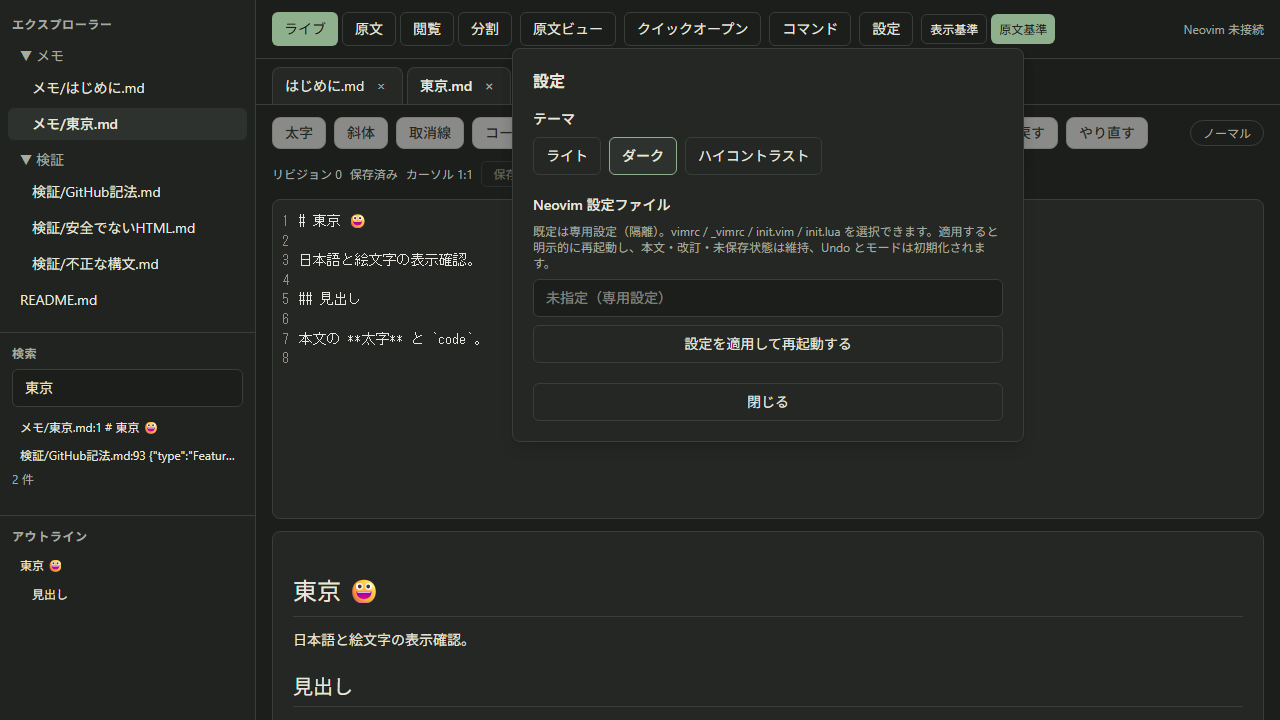
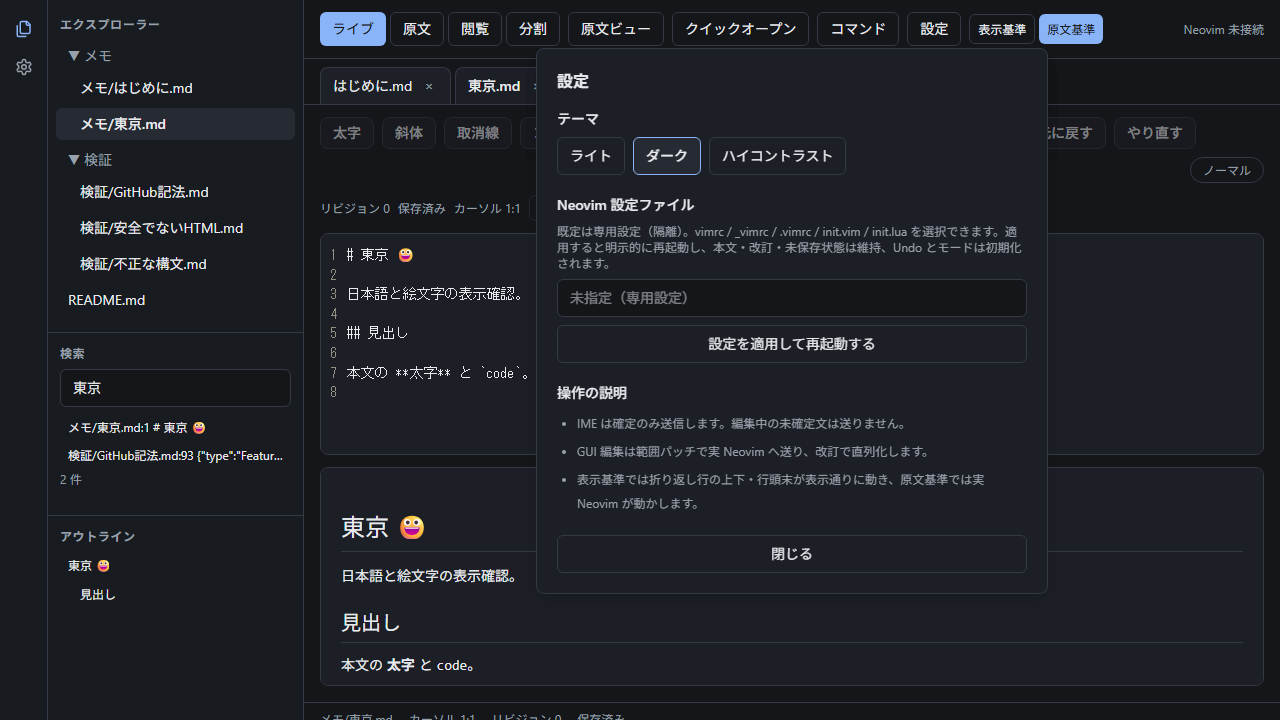
feat(issue-5): native user flows, AI sidebar, live preview wiring
- Native folder/config pickers via plugin-dialog (allow-open only); typed paths kept
- Status refreshes with documents/events; footer holds path/cursor/mode/revision; help moved to settings
- Cursor echo uses dedicated sequence tokens; display arrows/selection stay local; 229/IME never motions
- AI sidebar with exact scope, persisted non-secret profiles, onProposal handoff; apply reserved for #8
- Live mode wires livePreview into the editor pane; source/split raw; dark default neutral, light kept
- .vimrc accepted like backend; E2E exact-name fix; ADR-0052

diff --git a/src/components/shell/WorkspaceShell.tsx b/src/components/shell/WorkspaceShell.tsx
@@ -149,7 +149,7 @@ export function WorkspaceShell() {
   const [showAi, setShowAi] = useState(false);
   const [aiDismissed, setAiDismissed] = useState(false);
   const [aiProposal, setAiProposal] = useState<{ proposal: ProposalText; sent: ContextSummary[] } | null>(null);
-  const [theme, setTheme] = useState<ThemeId>("light");
+  const [theme, setTheme] = useState<ThemeId>("dark");
   const [quickOpen, setQuickOpen] = useState(false);
   const [palette, setPalette] = useState(false);
   const [settings, setSettings] = useState(false);
@@ -184,6 +184,14 @@ export function WorkspaceShell() {
   docsRef.current = docs;
   const activeRef = useRef(activeId);
   activeRef.current = activeId;
+  // Dedicated cursor sequence: every echo gets a fresh token so navigation
+  // without text change is never suppressed by revision equality.
+  const cursorSeq = useRef(0);
+  const echoCursor = useCallback((id: string, anchor: number, head: number) => {
+    cursorSeq.current += 1;
+    const seq = cursorSeq.current;
+    setCursorEcho((prev) => ({ ...prev, [id]: { anchor, head, seq } }));
+  }, []);
   const navRef = useRef(navBasis);
   navRef.current = navBasis;
   const vimModeRef = useRef(vimMode);
@@ -221,12 +229,12 @@ export function WorkspaceShell() {
       try {
         const cursor = await registry.fetchCursor(id);
         setSelections((prev) => ({ ...prev, [id]: { anchor: cursor.anchor, head: cursor.head } }));
-        setCursorEcho((prev) => ({ ...prev, [id]: { anchor: cursor.anchor, head: cursor.head, rev: cursor.revision } }));
+        echoCursor(id, cursor.anchor, cursor.head);
       } catch {
         // Best-effort display only.
       }
     },
-    [registry],
+    [registry, echoCursor],
   );
 
   // -- workspace lifecycle -------------------------------------------------
@@ -527,21 +535,19 @@ export function WorkspaceShell() {
 
   const jumpToOffset = useCallback(
     async (id: string, anchor: number, head: number) => {
-      setCursorEcho((prev) => {
-        const current = docsRef.current[id];
-        return { ...prev, [id]: { anchor, head, rev: (current?.revision ?? 0) + 0.5 } };
-      });
+      echoCursor(id, anchor, head);
       if (!registry) return;
       const current = docsRef.current[id];
       if (!current) return;
       try {
         const cursor = await registry.reportCursor({ documentId: id, revision: current.revision, anchor, head });
-        setCursorEcho((prev) => ({ ...prev, [id]: { anchor: cursor.anchor, head: cursor.head, rev: cursor.revision } }));
+        setSelections((prev) => ({ ...prev, [id]: { anchor: cursor.anchor, head: cursor.head } }));
+        echoCursor(id, cursor.anchor, cursor.head);
       } catch {
         // Best-effort navigation; the editor keeps its own selection.
       }
     },
-    [registry],
+    [registry, echoCursor],
   );
 
   // -- GUI range actions -----------------------------------------------------
@@ -772,8 +778,18 @@ export function WorkspaceShell() {
 
   // -- events / recovery -----------------------------------------------------
 
+  // Native status must follow documents, not mount time: an empty workspace
+  // reads disconnected while an open document reads connected, and a process
+  // crash flips back through the event path below.
+  const refreshRuntime = useCallback(() => {
+    readRuntimeStatus()
+      .then(setRuntime)
+      .catch(() => setRuntime({ contractVersion: 1, connection: "error", detail: "接続状態を取得できません。" }));
+  }, []);
+
   const handleEvents = useCallback(
     (events: WorkspaceEvent[]) => {
+      if (events.length > 0) refreshRuntime();
       for (const event of events) {
         if (event.type === "external_change") {
           const { documentId, path, deleted } = event.payload;
@@ -792,7 +808,7 @@ export function WorkspaceShell() {
         }
       }
     },
-    [mergeSnapshot],
+    [mergeSnapshot, refreshRuntime],
   );
 
   useEffect(() => {
@@ -823,6 +839,12 @@ export function WorkspaceShell() {
       active = false;
     };
   }, []);
+
+  // Native status refreshes with documents and workspace root; the mount
+  // read above only seeds the first paint.
+  useEffect(() => {
+    if (desktop) refreshRuntime();
+  }, [desktop, activeId, active?.revision, wsRoot, refreshRuntime]);
 
   useEffect(() => {
     if (!desktop || !activeId) return;
@@ -892,7 +914,7 @@ export function WorkspaceShell() {
     }
     const trimmed = configPath.trim();
     if (trimmed !== "" && !isSupportedConfigName(trimmed)) {
-      setConfigError("対応する名前は vimrc / _vimrc / init.vim / init.lua です。");
+      setConfigError("対応する名前は vimrc / _vimrc / .vimrc / init.vim / init.lua です。");
       return;
     }
     const id = activeRef.current;
@@ -1569,9 +1591,10 @@ export function WorkspaceShell() {
 
         <footer className="flex flex-wrap gap-x-4 gap-y-1 border-t border-border px-4 py-2 text-xs text-muted-foreground">
           <span>{active?.path ?? "（未開封）"}</span>
-          <span>IME は確定のみ送信（編集中の未確定文は送らない）</span>
-          <span>{desktop ? "GUI 編集は範囲パッチで Neovim へ" : "ブラウザ表示は読み取り専用です"}</span>
-          {desktop && <span>移動基準: {navBasis === "display" ? "表示" : "原文"}</span>}
+          {cursorPos && <span>カーソル {cursorPos}</span>}
+          {desktop && active && <span>モード {MODE_JA[vimMode] ?? vimMode}</span>}
+          <span>リビジョン {active?.revision ?? "—"}</span>
+          {active && <span>{active.dirty ? "未保存" : "保存済み"}</span>}
         </footer>
 
         <QuickOpen

diff --git a/src/components/workspace/SettingsPanel.tsx b/src/components/workspace/SettingsPanel.tsx
@@ -36,7 +36,7 @@ export function SettingsPanel({ theme, onTheme, configPath, configError, onConfi
       </section>
       <section aria-label="Neovim 設定" className="mt-5">
         <p className="mb-2 text-sm font-medium">Neovim 設定ファイル</p>
-        <p className="mb-2 text-xs text-muted-foreground">既定は専用設定（隔離）。vimrc / _vimrc / init.vim / init.lua を選択できます。適用すると明示的に再起動し、本文・改訂・未保存状態は維持、Undo とモードは初期化されます。</p>
+        <p className="mb-2 text-xs text-muted-foreground">既定は専用設定（隔離）。vimrc / _vimrc / .vimrc / init.vim / init.lua を選択できます。適用すると明示的に再起動し、本文・改訂・未保存状態は維持、Undo とモードは初期化されます。</p>
         {currentConfig !== null && (
           <p data-testid="current-config" className="mb-2 text-xs text-muted-foreground">現在: {currentConfig === "" ? "専用設定（隔離）" : currentConfig}</p>
         )}
@@ -56,7 +56,7 @@ export function SettingsPanel({ theme, onTheme, configPath, configError, onConfi
         </div>
         {nameInvalid && (
           <p role="alert" className="mt-2 text-xs text-red-700">
-            対応する名前は vimrc / _vimrc / init.vim / init.lua です。
+            対応する名前は vimrc / _vimrc / .vimrc / init.vim / init.lua です。
           </p>
         )}
         {configError && (
@@ -73,6 +73,14 @@ export function SettingsPanel({ theme, onTheme, configPath, configError, onConfi
         >
           {applyingConfig ? "再起動中…" : "設定を適用して再起動する"}
         </button>
+      </section>
+      <section aria-label="操作の説明" className="mt-5">
+        <p className="mb-2 text-sm font-medium">操作の説明</p>
+        <ul className="list-disc space-y-1 pl-5 text-xs leading-6 text-muted-foreground">
+          <li>IME は確定のみ送信します。編集中の未確定文は送りません。</li>
+          <li>GUI 編集は範囲パッチで実 Neovim へ送り、改訂で直列化します。</li>
+          <li>表示基準では折り返し行の上下・行頭末が表示通りに動き、原文基準では実 Neovim が動かします。</li>
+        </ul>
       </section>
       <button type="button" onClick={onClose} className="mt-5 w-full rounded-md border border-border px-3 py-2 text-sm">
         閉じる

diff --git a/src/components/editor/CodeMirrorEditor.tsx b/src/components/editor/CodeMirrorEditor.tsx
@@ -11,14 +11,14 @@ export interface EditorSelection {
 }
 
 /**
- * Vim cursor echo from the shell. Applied once per `rev` (the snapshot
- * revision the cursor was read at). This is the agreed key-router seam with
- * renderer #6: decorations, widgets, and composition handling stay untouched.
+ * Vim cursor echo from the shell. Each echo carries a dedicated shell-side
+ * sequence token so non-edit navigation applies even when the snapshot
+ * revision is unchanged. No revision arithmetic is used here.
  */
 export interface ExternalCursor {
   anchor: number;
   head: number;
-  rev: number;
+  seq: number;
 }
 
 interface Props {
@@ -175,15 +175,16 @@ export function CodeMirrorEditor({ value, editable = true, ariaLabel, testId, on
     view.dispatch({ effects: editableRef.current.reconfigure(EditorView.editable.of(editable)) });
   }, [editable]);
 
-  // Vim cursor echo: apply once per snapshot revision without disturbing
-  // composition or the user's active selection gestures.
-  const appliedCursorRev = useRef<number | null>(null);
+  // Vim cursor echo: apply once per sequence token without disturbing
+  // composition or the user's active selection gestures. The programmatic
+  // dispatch is guarded, so it never echoes back through onSelectionChange.
+  const appliedCursorSeq = useRef<number | null>(null);
   useEffect(() => {
     const view = viewRef.current;
     if (!view || !externalCursor) return;
     if (composing.current) return;
-    if (appliedCursorRev.current === externalCursor.rev) return;
-    appliedCursorRev.current = externalCursor.rev;
+    if (appliedCursorSeq.current === externalCursor.seq) return;
+    appliedCursorSeq.current = externalCursor.seq;
     const len = view.state.doc.length;
     const anchor = Math.min(Math.max(0, externalCursor.anchor), len);
     const head = Math.min(Math.max(0, externalCursor.head), len);

diff --git a/src/components/shell/WorkspaceShell.registry.test.tsx b/src/components/shell/WorkspaceShell.registry.test.tsx
@@ -302,6 +302,23 @@ it("picks the config file natively and applies it with restart", async () => {
   await screen.findByText(/再起動しました/);
 });
 
+it("refreshes the runtime status when documents open", async () => {
+  vi.mocked(readRuntimeStatus).mockReset();
+  let releaseFirst!: (status: { contractVersion: number; connection: "disconnected"; detail: string }) => void;
+  vi.mocked(readRuntimeStatus).mockImplementationOnce(
+    () => new Promise((resolve) => { releaseFirst = resolve; }),
+  );
+  vi.mocked(readRuntimeStatus).mockResolvedValue({ contractVersion: 1, connection: "connected", detail: "live" });
+  render(<App />);
+  releaseFirst({ contractVersion: 1, connection: "disconnected", detail: "empty" });
+  expect(await screen.findByText("Neovim 未接続")).toBeVisible();
+  fireEvent.change(screen.getByLabelText("開くフォルダーの絶対パス"), { target: { value: "/ws" } });
+  fireEvent.click(screen.getByRole("button", { name: "フォルダーを開く" }));
+  await screen.findByRole("button", { name: "メモ/a.md" });
+  fireEvent.click(screen.getByRole("button", { name: "メモ/a.md" }));
+  await waitFor(() => expect(screen.getByRole("status")).toHaveTextContent("Neovim 接続済み"));
+});
+
 it("mounts the AI panel with the exact document scope", async () => {
   await openWorkspace();
   fireEvent.click(screen.getByRole("button", { name: "メモ/a.md" }));

diff --git a/src/lib/workspace.test.ts b/src/lib/workspace.test.ts
@@ -1,5 +1,5 @@
 import { describe, expect, it } from "vitest";
-import { filterPaths, fuzzyMatch, outlineFromMarkdown, replaceAll, replaceEdits, searchWorkspace } from "./workspace";
+import { filterPaths, fuzzyMatch, isSupportedConfigName, outlineFromMarkdown, replaceAll, replaceEdits, searchWorkspace } from "./workspace";
 import { applyTextEdits } from "./utf16";
 
 describe("workspace helpers", () => {
@@ -30,5 +30,12 @@ describe("workspace helpers", () => {
     expect(edits.map((edit) => edit.range.start)).toEqual([0, 3]);
     expect(applyTextEdits(text, edits)).toBe("大阪\n大阪タワー\n");
     expect(replaceEdits(text, "", "x")).toEqual({ edits: [], count: 0 });
+  });
+
+  it("accepts dotted and underscore vimrc names", () => {
+    for (const name of ["vimrc", "_vimrc", ".vimrc", "init.vim", "init.lua"]) {
+      expect(isSupportedConfigName(`/cfg/${name}`)).toBe(true);
+    }
+    expect(isSupportedConfigName("/cfg/init.toml")).toBe(false);
   });
 });

diff --git a/tests/e2e/editor.spec.ts b/tests/e2e/editor.spec.ts
@@ -76,7 +76,7 @@ test("tree/tabs/quick-open/search/outline/palette/themes work in Japanese", asyn
   await page.getByTestId("command-palette").getByLabel("コマンドで絞り込む").fill("保存");
   await expect(page.getByTestId("command-palette")).toContainText("ファイル: 保存する");
 
-  await page.getByRole("button", { name: "設定" }).click();
+  await page.getByRole("button", { name: "設定", exact: true }).click();
   await expect(page.getByTestId("settings")).toBeVisible();
   await page.getByRole("button", { name: "ダーク" }).click();
   await expect(page.getByTestId("workspace-shell")).toHaveAttribute("data-theme", "dark");

diff --git a/src/styles.css b/src/styles.css
@@ -26,14 +26,14 @@
 }
 
 [data-theme="dark"] {
-  --background: #1c1e1c;
-  --foreground: #e8e6df;
-  --card: #242724;
-  --primary: #8fb08d;
-  --primary-foreground: #1c1e1c;
-  --muted: #2e322e;
-  --muted-foreground: #a8aca0;
-  --border: #3a3e3a;
+  --background: #14161a;
+  --foreground: #e8eaed;
+  --card: #1c1f26;
+  --primary: #8ab4f8;
+  --primary-foreground: #14161a;
+  --muted: #262a33;
+  --muted-foreground: #9aa0ab;
+  --border: #333945;
 }
 
 [data-theme="contrast"] {

diff --git a/src/lib/workspace.ts b/src/lib/workspace.ts
@@ -211,7 +211,7 @@ export const SAMPLE_WORKSPACE: WorkspaceFile[] = [
   },
 ];
 
-export const SUPPORTED_CONFIG_NAMES = ["vimrc", "_vimrc", "init.vim", "init.lua"] as const;
+export const SUPPORTED_CONFIG_NAMES = ["vimrc", "_vimrc", ".vimrc", "init.vim", "init.lua"] as const;
 
 export function isSupportedConfigName(name: string): boolean {
   const base = name.split(/[\\/]/).pop() ?? name;
